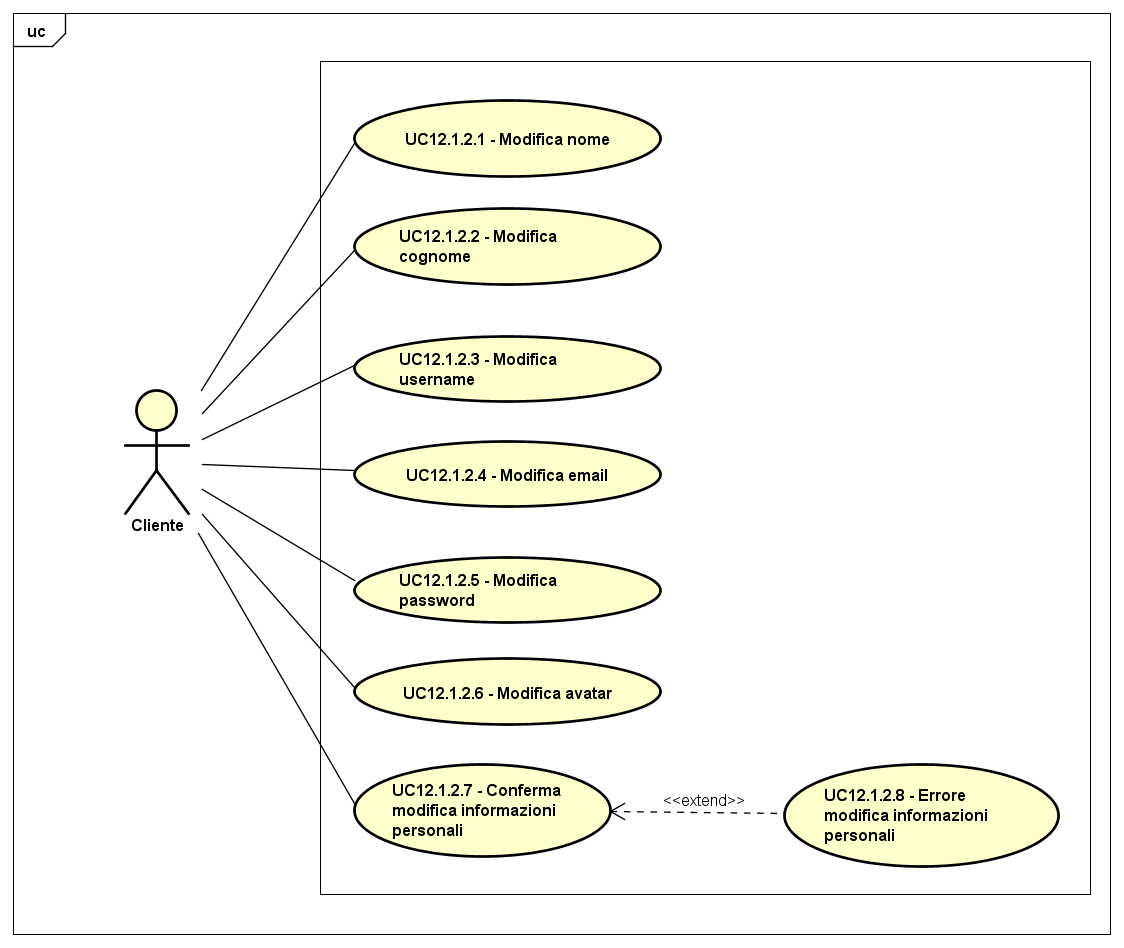
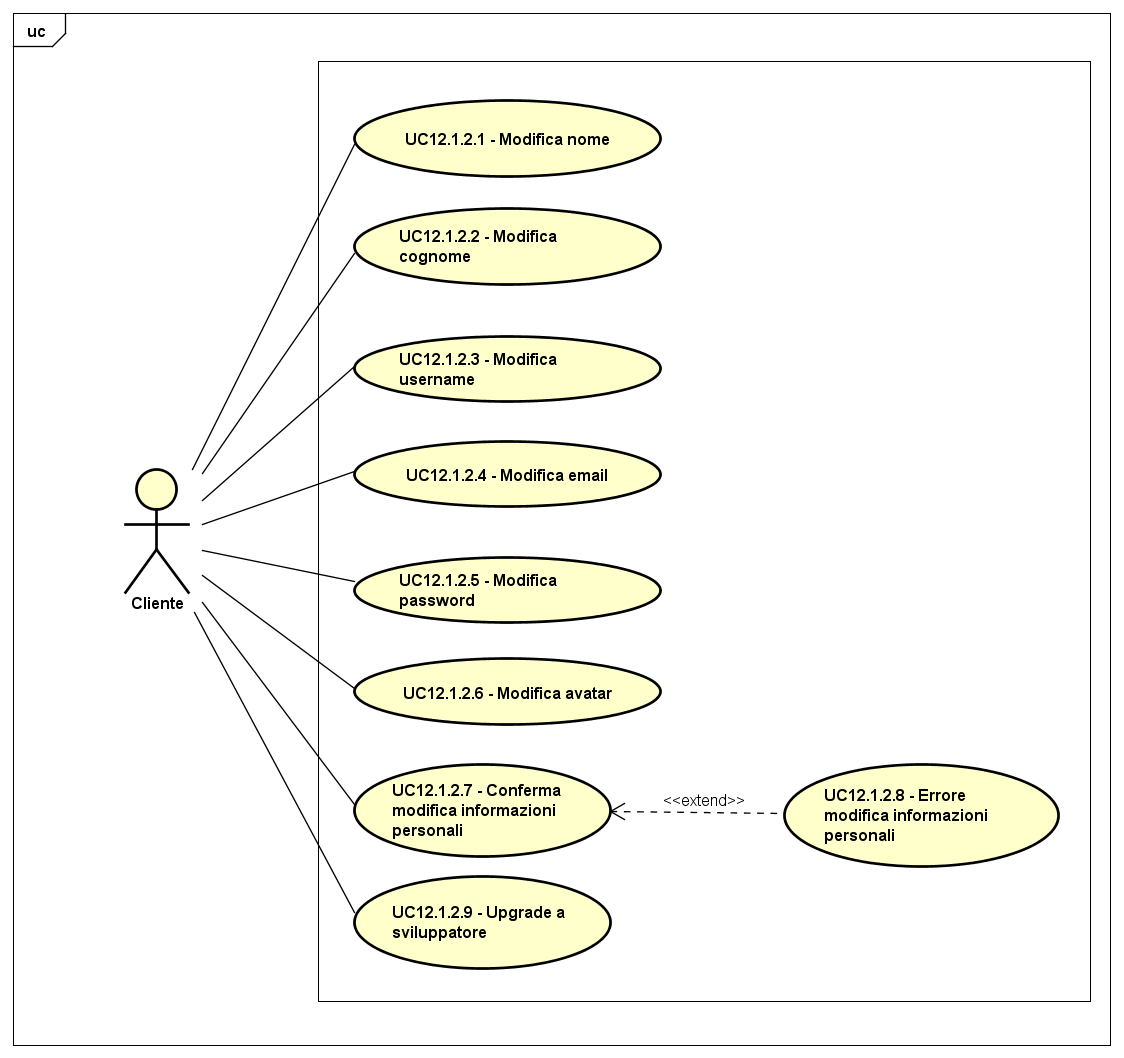
Aggiunto upgrade developer

diff --git a/Docs/RQ/Analisi dei requisiti/includes/UseCase/UC12.tex b/Docs/RQ/Analisi dei requisiti/includes/UseCase/UC12.tex
@@ -230,6 +230,7 @@
 		\item L'attore può modificare la propria password (UC12.1.2.5)
 		\item L'attore può modificare il proprio avatar (UC12.1.2.6)
 		\item L'attore può confermare la modifica alle proprie informazioni personali (UC12.1.2.7)
+		\item L'attore può migliorare il proprio status a sviluppatore (UC12.1.2.9)
 	\end{enumerate*}\\
 	\textbf{Scenari Alternativi} & 
 	\begin{enumerate*}[label=(\arabic*.),itemjoin={\newline}]
@@ -357,6 +358,26 @@
 	\end{tabular}
 \end{minipage}
 
+\subparagraph{Caso d'uso UC12.1.2.6: Modifica avatar}
+\label{UC12_1_2_6}
+
+\begin{minipage}{\linewidth}
+	\begin{tabular}{ l | p{11cm}}
+		\hline
+		\rowcolor{Gray}
+		\multicolumn{2}{c}{UC12.1.2.6 - Modifica avatar} \\
+		\hline
+		\textbf{Attori} & Cliente \\
+		\textbf{Descrizione} & L'attore modifica il proprio avatar \\
+		\textbf{Pre-Condizioni} & L'attore si trova nella schermata relativa alla gestione delle informazioni personali \\
+		\textbf{Post-Condizioni} & L'attore ha modificato il proprio avatar \\
+		\textbf{Scenario Principale} & 
+		\begin{enumerate*}[label=(\arabic*.),itemjoin={\newline}]
+			\item L'attore può modificare il proprio avatar
+		\end{enumerate*}
+	\end{tabular}
+\end{minipage}
+
 \subparagraph{Caso d'uso UC12.1.2.7: Conferma modifica informazioni personali}
 \label{UC12_1_2_7}
 
@@ -394,6 +415,26 @@
 		\begin{enumerate*}[label=(\arabic*.),itemjoin={\newline}]
 			\item L'attore può visualizzare un messaggio di errore informativo e la modifica delle informazioni personali non avviene
 		\end{enumerate*}\\
+	\end{tabular}
+\end{minipage}
+
+\subparagraph{Caso d'uso UC12.1.2.9: Upgrade a sviluppatore}
+\label{UC12_1_2_9}
+
+\begin{minipage}{\linewidth}
+	\begin{tabular}{ l | p{11cm}}
+		\hline
+		\rowcolor{Gray}
+		\multicolumn{2}{c}{UC12.1.2.9 - Upgrade a sviluppatore} \\
+		\hline
+		\textbf{Attori} & Cliente \\
+		\textbf{Descrizione} & Il cliente base migliora il proprio status diventando sviluppatore \\
+		\textbf{Pre-Condizioni} & Il cliente base si trova nella schermata relativa alla gestione delle informazioni personali \\
+		\textbf{Post-Condizioni} & Il cliente base ha migliorato il proprio status diventando sviluppatore \\
+		\textbf{Scenario Principale} & 
+		\begin{enumerate*}[label=(\arabic*.),itemjoin={\newline}]
+			\item Il cliente base può migliorare il proprio status diventando sviluppatore
+		\end{enumerate*}
 	\end{tabular}
 \end{minipage}
 

diff --git a/Docs/RQ/Analisi dei requisiti/includes/tabellaRequisiti/tracciamentofontireq.tex b/Docs/RQ/Analisi dei requisiti/includes/tabellaRequisiti/tracciamentofontireq.tex
@@ -619,6 +619,7 @@
 & \hyperlink{RFD10.1.2.6}{RFD10.1.2.6}\\
 & \hyperlink{RFD10.1.2.7}{RFD10.1.2.7}\\
 & \hyperlink{RFO10.1.2.8}{RFO10.1.2.8}\\
+& \hyperlink{RFO10.1.2.9}{RFO10.1.2.9}\\
 & \hyperlink{RFO10.2}{RFO10.2}\\
 & \hyperlink{RFO10.2.1}{RFO10.2.1}\\
 & \hyperlink{RFO10.2.2}{RFO10.2.2}\\
@@ -657,7 +658,8 @@
 & \hyperlink{RFO10.1.2.5}{RFO10.1.2.5}\\
 & \hyperlink{RFD10.1.2.6}{RFD10.1.2.6}\\
 & \hyperlink{RFD10.1.2.7}{RFD10.1.2.7}\\
-& \hyperlink{RFO10.1.2.8}{RFO10.1.2.8}\\\hline
+& \hyperlink{RFO10.1.2.8}{RFO10.1.2.8}\\
+& \hyperlink{RFO10.1.2.9}{RFO10.1.2.9}\\\hline
 
 \hyperlink{UC12.1.1}{UC12.1.1} 
 & \hyperlink{RFO10.1.1}{RFO10.1.1}\\
@@ -684,7 +686,8 @@
 & \hyperlink{RFO10.1.2.5}{RFO10.1.2.5}\\
 & \hyperlink{RFD10.1.2.6}{RFD10.1.2.6}\\
 & \hyperlink{RFD10.1.2.7}{RFD10.1.2.7}\\
-& \hyperlink{RFO10.1.2.8}{RFO10.1.2.8}\\\hline
+& \hyperlink{RFO10.1.2.8}{RFO10.1.2.8}\\
+& \hyperlink{RFO10.1.2.9}{RFO10.1.2.9}\\\hline
 
 \hyperlink{UC12.1.2.1}{UC12.1.2.1} & \hyperlink{RFO10.1.2.1}{RFO10.1.2.1}\\\hline
 \hyperlink{UC12.1.2.2}{UC12.1.2.2} & \hyperlink{RFO10.1.2.2}{RFO10.1.2.2}\\\hline
@@ -694,6 +697,7 @@
 \hyperlink{UC12.1.2.6}{UC12.1.2.6} & \hyperlink{RFO10.1.2.6}{RFO10.1.2.6}\\\hline
 \hyperlink{UC12.1.2.7}{UC12.1.2.7} & \hyperlink{RFO10.1.2.7}{RFO10.1.2.7}\\\hline
 \hyperlink{UC12.1.2.8}{UC12.1.2.8} & \hyperlink{RFO10.1.2.8}{RFO10.1.2.8}\\\hline
+\hyperlink{UC12.1.2.9}{UC12.1.2.9} & \hyperlink{RFO10.1.2.8}{RFO10.1.2.9}\\\hline
 
 \hyperlink{UC12.2}{UC12.2} 
 & \hyperlink{RFO10.2}{RFO10.2}\\

diff --git a/Docs/RQ/Analisi dei requisiti/includes/tabellaRequisiti/reqfunzionali.tex b/Docs/RQ/Analisi dei requisiti/includes/tabellaRequisiti/reqfunzionali.tex
@@ -371,6 +371,7 @@ Di seguito sono elencati tutti i requisiti rilevati e descritti nel documento. E
 \hline
 \hypertarget{RFO10.1.2.8}{RFO10.1.2.8} & L'applicazione web può mostrare un errore nel caso le modifiche alle info del profilo siano fallite & \makecell*{Interno\\UC12\\UC12.1\\UC12.1.2\\UC12.1.2.8} \\
 \hline
+\hypertarget{RFD10.1.2.9}{RFD10.1.2.9} & Il cliente base può migliorare il proprio status a sviluppatore & \makecell*{Interno\\UC12\\UC12.1\\UC12.1.2\\UC12.1.2.9} \\
 
 \hypertarget{RFO10.2}{RFO10.2} & Il cliente può gestire il proprio conto &\makecell*{Capitolato\\UC12\\UC12.2} \\
 \hline

diff --git a/Docs/RQ/Analisi dei requisiti/includes/tabellaRequisiti/tracciamentoreqfonti.tex b/Docs/RQ/Analisi dei requisiti/includes/tabellaRequisiti/tracciamentoreqfonti.tex
@@ -806,6 +806,13 @@
 & \hyperref[UC12.1.2]{UC12.1.2}\\
 & \hyperref[UC12.1.2.8]{UC12.1.2.8}\\\hline
 
+\hyperlink{RFO10.1.2.9}{RFO10.1.2.9} 
+ & \hyperlink{Interno}{Interno}\\
+& \hyperref[UC12]{UC12}\\
+& \hyperref[UC12.1]{UC12.1}\\
+& \hyperref[UC12.1.2]{UC12.1.2}\\
+& \hyperref[UC12.1.2.9]{UC12.1.2.9}\\\hline
+
  \hyperlink{RFO10.2}{RFO10.2} 
  & \hyperlink{Capitolato}{Capitolato}\\\
 & \hyperref[UC12]{UC12}\\
